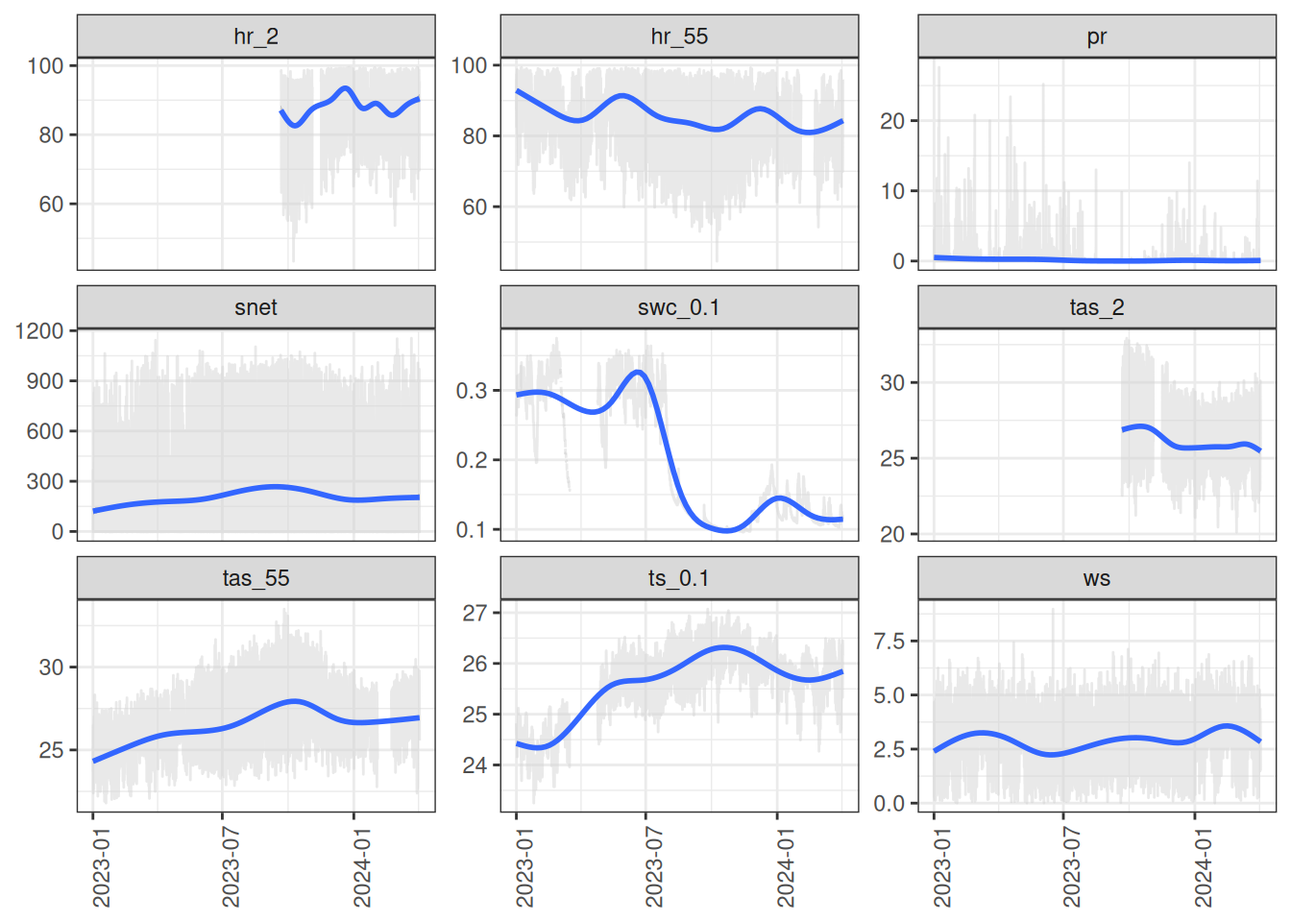
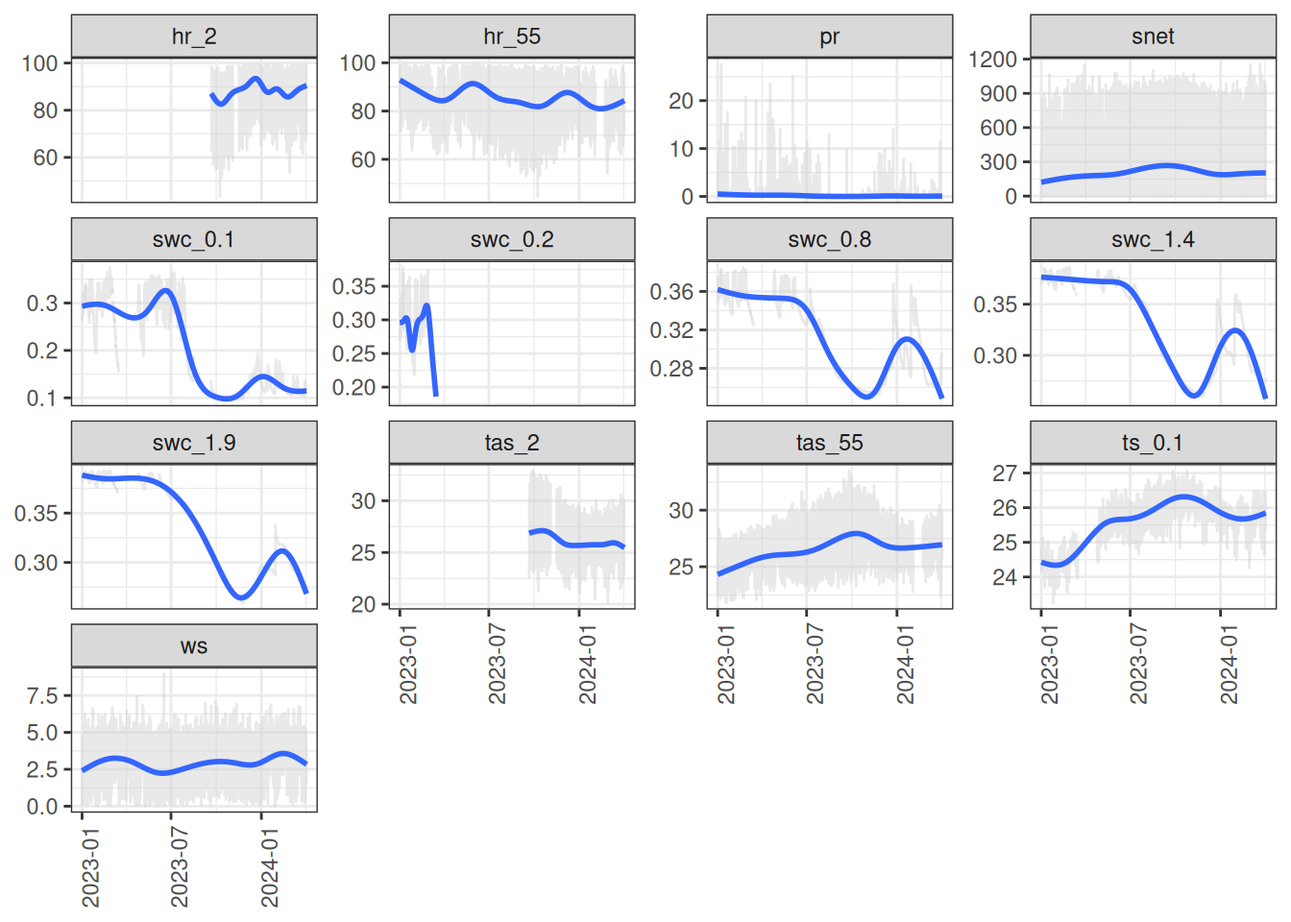
microclim 0.1.0.9007: swc at different depth from Guyaflux (REW instead?) and temporal+spatial model

diff --git a/docs/22_microclimate.html b/docs/22_microclimate.html
@@ -259,6 +259,7 @@ pre > code.sourceCode > span > a:first-child::before { text-decoration: underlin
   <li><a href="#qualitative-descriptors" id="toc-qualitative-descriptors" class="nav-link" data-scroll-target="#qualitative-descriptors">Qualitative descriptors</a></li>
   <li><a href="#spatial-descriptors" id="toc-spatial-descriptors" class="nav-link" data-scroll-target="#spatial-descriptors">Spatial descriptors</a></li>
   <li><a href="#temporal-descriptors" id="toc-temporal-descriptors" class="nav-link" data-scroll-target="#temporal-descriptors">Temporal descriptors</a></li>
+  <li><a href="#all-descriptors" id="toc-all-descriptors" class="nav-link" data-scroll-target="#all-descriptors">All descriptors</a></li>
   </ul>
 </nav>
     </div>
@@ -607,8 +608,8 @@ pre > code.sourceCode > span > a:first-child::before { text-decoration: underlin
 <span id="cb11-2"><a href="#cb11-2" aria-hidden="true" tabindex="-1"></a>                               <span class="at">sheet =</span> <span class="st">"Gx meteo_2023-2024"</span>,</span>
 <span id="cb11-3"><a href="#cb11-3" aria-hidden="true" tabindex="-1"></a>                               <span class="at">col_types =</span> <span class="fu">c</span>(<span class="st">"date"</span>, <span class="fu">rep</span>(<span class="st">"numeric"</span>, <span class="dv">29</span>))) <span class="sc">%&gt;%</span> </span>
 <span id="cb11-4"><a href="#cb11-4" aria-hidden="true" tabindex="-1"></a>  <span class="fu">rename_all</span>(tolower) <span class="sc">%&gt;%</span> </span>
-<span id="cb11-5"><a href="#cb11-5" aria-hidden="true" tabindex="-1"></a>  <span class="fu">rename</span>(<span class="at">hr_55 =</span> <span class="st">`</span><span class="at">hr(55)</span><span class="st">`</span>, <span class="at">snet =</span> rg, <span class="at">pr =</span> pluie) <span class="sc">%&gt;%</span> </span>
-<span id="cb11-6"><a href="#cb11-6" aria-hidden="true" tabindex="-1"></a>  <span class="fu">select</span>(date, hr_55, snet, pr) <span class="sc">%&gt;%</span> </span>
+<span id="cb11-5"><a href="#cb11-5" aria-hidden="true" tabindex="-1"></a>  <span class="fu">rename</span>(<span class="at">hr_55 =</span> <span class="st">`</span><span class="at">hr(55)</span><span class="st">`</span>, <span class="at">snet =</span> rg, <span class="at">pr =</span> pluie, <span class="at">swc_0.8 =</span> vwc_avg_80cm) <span class="sc">%&gt;%</span> </span>
+<span id="cb11-6"><a href="#cb11-6" aria-hidden="true" tabindex="-1"></a>  <span class="fu">select</span>(date, hr_55, snet, pr, swc_0<span class="fl">.8</span>) <span class="sc">%&gt;%</span> </span>
 <span id="cb11-7"><a href="#cb11-7" aria-hidden="true" tabindex="-1"></a>  <span class="fu">group_by</span>(<span class="at">date =</span> <span class="fu">as_date</span>(date)) <span class="sc">%&gt;%</span> </span>
 <span id="cb11-8"><a href="#cb11-8" aria-hidden="true" tabindex="-1"></a>  <span class="fu">mutate</span>(<span class="at">pr =</span> <span class="fu">sum</span>(pr)) <span class="sc">%&gt;%</span> </span>
 <span id="cb11-9"><a href="#cb11-9" aria-hidden="true" tabindex="-1"></a>  <span class="fu">summarise_all</span>(mean) <span class="sc">%&gt;%</span> </span>
@@ -621,9 +622,9 @@ pre > code.sourceCode > span > a:first-child::before { text-decoration: underlin
 <span id="cb11-16"><a href="#cb11-16" aria-hidden="true" tabindex="-1"></a>  <span class="fu">filter</span>(period <span class="sc">==</span> <span class="dv">24</span>) <span class="sc">%&gt;%</span> </span>
 <span id="cb11-17"><a href="#cb11-17" aria-hidden="true" tabindex="-1"></a>  <span class="fu">mutate</span>(<span class="at">ratio =</span> power<span class="sc">/</span>power_era) <span class="sc">%&gt;%</span> </span>
 <span id="cb11-18"><a href="#cb11-18" aria-hidden="true" tabindex="-1"></a>  <span class="fu">filter</span>(type <span class="sc">==</span> <span class="st">"air"</span>) <span class="sc">%&gt;%</span> </span>
-<span id="cb11-19"><a href="#cb11-19" aria-hidden="true" tabindex="-1"></a>  <span class="fu">left_join</span>(guyaflux) <span class="sc">%&gt;%</span> </span>
-<span id="cb11-20"><a href="#cb11-20" aria-hidden="true" tabindex="-1"></a>  <span class="fu">filter</span>(<span class="sc">!</span><span class="fu">is.na</span>(variable)) <span class="sc">%&gt;%</span> </span>
-<span id="cb11-21"><a href="#cb11-21" aria-hidden="true" tabindex="-1"></a>  <span class="fu">mutate</span>(<span class="at">season =</span> <span class="fu">ifelse</span>(<span class="fu">month</span>(date) <span class="sc">%in%</span> <span class="dv">8</span><span class="sc">:</span><span class="dv">11</span>, <span class="st">"dry"</span>, <span class="st">"wet"</span>))</span>
+<span id="cb11-19"><a href="#cb11-19" aria-hidden="true" tabindex="-1"></a>  <span class="fu">mutate</span>(<span class="at">season =</span> <span class="fu">ifelse</span>(<span class="fu">month</span>(date) <span class="sc">%in%</span> <span class="dv">8</span><span class="sc">:</span><span class="dv">11</span>, <span class="st">"dry"</span>, <span class="st">"wet"</span>)) <span class="sc">%&gt;%</span> </span>
+<span id="cb11-20"><a href="#cb11-20" aria-hidden="true" tabindex="-1"></a>  <span class="fu">left_join</span>(guyaflux) <span class="sc">%&gt;%</span> </span>
+<span id="cb11-21"><a href="#cb11-21" aria-hidden="true" tabindex="-1"></a>  <span class="fu">filter</span>(<span class="sc">!</span><span class="fu">is.na</span>(variable))</span>
 <span id="cb11-22"><a href="#cb11-22" aria-hidden="true" tabindex="-1"></a><span class="fu">ggplot</span>(temp, <span class="fu">aes</span>(value, ratio)) <span class="sc">+</span></span>
 <span id="cb11-23"><a href="#cb11-23" aria-hidden="true" tabindex="-1"></a>  <span class="fu">geom_point</span>(<span class="at">alpha =</span> .<span class="dv">1</span>, <span class="fu">aes</span>(<span class="at">col =</span> season)) <span class="sc">+</span></span>
 <span id="cb11-24"><a href="#cb11-24" aria-hidden="true" tabindex="-1"></a>  <span class="fu">facet_wrap</span>(<span class="sc">~</span> variable, <span class="at">scales =</span> <span class="st">"free"</span>, <span class="at">nrow =</span> <span class="dv">2</span>) <span class="sc">+</span></span>
@@ -650,8 +651,8 @@ pre > code.sourceCode > span > a:first-child::before { text-decoration: underlin
 <div class="sourceCode cell-code" id="cb12"><pre class="sourceCode r code-with-copy"><code class="sourceCode r"><span id="cb12-1"><a href="#cb12-1" aria-hidden="true" tabindex="-1"></a>temp <span class="sc">%&gt;%</span> </span>
 <span id="cb12-2"><a href="#cb12-2" aria-hidden="true" tabindex="-1"></a>  <span class="fu">pivot_wider</span>(<span class="at">names_from =</span> variable, <span class="at">values_from =</span> value) <span class="sc">%&gt;%</span> </span>
 <span id="cb12-3"><a href="#cb12-3" aria-hidden="true" tabindex="-1"></a>  <span class="fu">filter</span>(<span class="sc">!</span><span class="fu">is.infinite</span>(pr)) <span class="sc">%&gt;%</span> </span>
-<span id="cb12-4"><a href="#cb12-4" aria-hidden="true" tabindex="-1"></a>  <span class="fu">mutate</span>(<span class="fu">across</span>(<span class="fu">c</span>(<span class="st">"ratio"</span>, <span class="st">"hr_55"</span>, <span class="st">"snet"</span>, <span class="st">"pr"</span>), scale)) <span class="sc">%&gt;%</span> </span>
-<span id="cb12-5"><a href="#cb12-5" aria-hidden="true" tabindex="-1"></a>  <span class="fu">lm</span>(ratio <span class="sc">~</span> season <span class="sc">+</span> hr_55 <span class="sc">+</span> snet <span class="sc">+</span> pr, <span class="at">data =</span> .) <span class="sc">%&gt;%</span> </span>
+<span id="cb12-4"><a href="#cb12-4" aria-hidden="true" tabindex="-1"></a>  <span class="fu">mutate</span>(<span class="fu">across</span>(<span class="fu">c</span>(<span class="st">"ratio"</span>, <span class="st">"hr_55"</span>, <span class="st">"snet"</span>, <span class="st">"pr"</span>, <span class="st">"swc_0.8"</span>), scale)) <span class="sc">%&gt;%</span> </span>
+<span id="cb12-5"><a href="#cb12-5" aria-hidden="true" tabindex="-1"></a>  <span class="fu">lm</span>(ratio <span class="sc">~</span> season <span class="sc">+</span> hr_55 <span class="sc">+</span> snet <span class="sc">+</span> pr <span class="sc">+</span> swc_0<span class="fl">.8</span>, <span class="at">data =</span> .) <span class="sc">%&gt;%</span> </span>
 <span id="cb12-6"><a href="#cb12-6" aria-hidden="true" tabindex="-1"></a>  sjPlot<span class="sc">::</span><span class="fu">tab_model</span>()</span></code><button title="Copy to Clipboard" class="code-copy-button"><i class="bi"></i></button></pre></div>
 </details>
 <div class="cell-output-display">
@@ -669,41 +670,137 @@ pre > code.sourceCode > span > a:first-child::before { text-decoration: underlin
 </tr>
 <tr class="odd">
 <td style="text-align: left; padding: 0.2cm; vertical-align: top;">(Intercept)</td>
-<td style="text-align: left; padding: 0.2cm; vertical-align: top;">1.13</td>
-<td style="text-align: left; padding: 0.2cm; vertical-align: top;">1.03&nbsp;–&nbsp;1.22</td>
+<td style="text-align: left; padding: 0.2cm; vertical-align: top;">1.08</td>
+<td style="text-align: left; padding: 0.2cm; vertical-align: top;">0.97&nbsp;–&nbsp;1.19</td>
 <td style="text-align: left; padding: 0.2cm; vertical-align: top;"><strong>&lt;0.001</strong></td>
 </tr>
 <tr class="even">
 <td style="text-align: left; padding: 0.2cm; vertical-align: top;">season [wet]</td>
-<td style="text-align: left; padding: 0.2cm; vertical-align: top;">-1.31</td>
-<td style="text-align: left; padding: 0.2cm; vertical-align: top;">-1.41&nbsp;–&nbsp;-1.21</td>
+<td style="text-align: left; padding: 0.2cm; vertical-align: top;">-1.20</td>
+<td style="text-align: left; padding: 0.2cm; vertical-align: top;">-1.33&nbsp;–&nbsp;-1.08</td>
 <td style="text-align: left; padding: 0.2cm; vertical-align: top;"><strong>&lt;0.001</strong></td>
 </tr>
 <tr class="odd">
 <td style="text-align: left; padding: 0.2cm; vertical-align: top;">hr 55</td>
-<td style="text-align: left; padding: 0.2cm; vertical-align: top;">-0.26</td>
-<td style="text-align: left; padding: 0.2cm; vertical-align: top;">-0.32&nbsp;–&nbsp;-0.20</td>
+<td style="text-align: left; padding: 0.2cm; vertical-align: top;">-0.19</td>
+<td style="text-align: left; padding: 0.2cm; vertical-align: top;">-0.26&nbsp;–&nbsp;-0.11</td>
 <td style="text-align: left; padding: 0.2cm; vertical-align: top;"><strong>&lt;0.001</strong></td>
 </tr>
 <tr class="even">
 <td style="text-align: left; padding: 0.2cm; vertical-align: top;">snet</td>
-<td style="text-align: left; padding: 0.2cm; vertical-align: top;">0.01</td>
-<td style="text-align: left; padding: 0.2cm; vertical-align: top;">-0.03&nbsp;–&nbsp;0.06</td>
-<td style="text-align: left; padding: 0.2cm; vertical-align: top;">0.602</td>
+<td style="text-align: left; padding: 0.2cm; vertical-align: top;">0.00</td>
+<td style="text-align: left; padding: 0.2cm; vertical-align: top;">-0.05&nbsp;–&nbsp;0.06</td>
+<td style="text-align: left; padding: 0.2cm; vertical-align: top;">0.879</td>
 </tr>
 <tr class="odd">
 <td style="text-align: left; padding: 0.2cm; vertical-align: top;">pr</td>
-<td style="text-align: left; padding: 0.2cm; vertical-align: top;">-0.15</td>
-<td style="text-align: left; padding: 0.2cm; vertical-align: top;">-0.20&nbsp;–&nbsp;-0.10</td>
+<td style="text-align: left; padding: 0.2cm; vertical-align: top;">-0.16</td>
+<td style="text-align: left; padding: 0.2cm; vertical-align: top;">-0.22&nbsp;–&nbsp;-0.11</td>
 <td style="text-align: left; padding: 0.2cm; vertical-align: top;"><strong>&lt;0.001</strong></td>
 </tr>
 <tr class="even">
-<td style="text-align: left; padding: 0.2cm; vertical-align: top; padding-top: 0.1cm; padding-bottom: 0.1cm; border-top: 1px solid;">Observations</td>
-<td colspan="3" style="text-align: left; padding: 0.2cm; vertical-align: top; padding-top: 0.1cm; padding-bottom: 0.1cm; border-top: 1px solid;">2112</td>
+<td style="text-align: left; padding: 0.2cm; vertical-align: top;">swc 0 8</td>
+<td style="text-align: left; padding: 0.2cm; vertical-align: top;">-0.06</td>
+<td style="text-align: left; padding: 0.2cm; vertical-align: top;">-0.11&nbsp;–&nbsp;-0.01</td>
+<td style="text-align: left; padding: 0.2cm; vertical-align: top;"><strong>0.011</strong></td>
 </tr>
 <tr class="odd">
+<td style="text-align: left; padding: 0.2cm; vertical-align: top; padding-top: 0.1cm; padding-bottom: 0.1cm; border-top: 1px solid;">Observations</td>
+<td colspan="3" style="text-align: left; padding: 0.2cm; vertical-align: top; padding-top: 0.1cm; padding-bottom: 0.1cm; border-top: 1px solid;">1952</td>
+</tr>
+<tr class="even">
 <td style="text-align: left; padding: 0.2cm; vertical-align: top; padding-top: 0.1cm; padding-bottom: 0.1cm;">R<sup>2</sup> / R<sup>2</sup> adjusted</td>
-<td colspan="3" style="text-align: left; padding: 0.2cm; vertical-align: top; padding-top: 0.1cm; padding-bottom: 0.1cm;">0.424 / 0.423</td>
+<td colspan="3" style="text-align: left; padding: 0.2cm; vertical-align: top; padding-top: 0.1cm; padding-bottom: 0.1cm;">0.399 / 0.398</td>
+</tr>
+</tbody>
+</table>
+
+
+</div>
+</div>
+</section>
+<section id="all-descriptors" class="level2">
+<h2 class="anchored" data-anchor-id="all-descriptors">All descriptors</h2>
+<div class="cell">
+<details>
+<summary>Code</summary>
+<div class="sourceCode cell-code" id="cb13"><pre class="sourceCode r code-with-copy"><code class="sourceCode r"><span id="cb13-1"><a href="#cb13-1" aria-hidden="true" tabindex="-1"></a>temp <span class="sc">%&gt;%</span> </span>
+<span id="cb13-2"><a href="#cb13-2" aria-hidden="true" tabindex="-1"></a>  <span class="fu">pivot_wider</span>(<span class="at">names_from =</span> variable, <span class="at">values_from =</span> value) <span class="sc">%&gt;%</span> </span>
+<span id="cb13-3"><a href="#cb13-3" aria-hidden="true" tabindex="-1"></a>  <span class="fu">filter</span>(<span class="sc">!</span><span class="fu">is.infinite</span>(pr)) <span class="sc">%&gt;%</span> </span>
+<span id="cb13-4"><a href="#cb13-4" aria-hidden="true" tabindex="-1"></a>  <span class="fu">left_join</span>(topo) <span class="sc">%&gt;%</span> </span>
+<span id="cb13-5"><a href="#cb13-5" aria-hidden="true" tabindex="-1"></a>  <span class="fu">left_join</span>(<span class="fu">filter</span>(pad, strata <span class="sc">==</span> <span class="st">"understory"</span>)) <span class="sc">%&gt;%</span> </span>
+<span id="cb13-6"><a href="#cb13-6" aria-hidden="true" tabindex="-1"></a>  <span class="fu">mutate</span>(<span class="fu">across</span>(<span class="fu">c</span>(<span class="st">"ratio"</span>, <span class="st">"hr_55"</span>, <span class="st">"snet"</span>, <span class="st">"pr"</span>, <span class="st">"swc_0.8"</span>, <span class="st">"twi"</span>, <span class="st">"pad"</span>), scale)) <span class="sc">%&gt;%</span> </span>
+<span id="cb13-7"><a href="#cb13-7" aria-hidden="true" tabindex="-1"></a>  <span class="fu">lm</span>(ratio <span class="sc">~</span> season <span class="sc">+</span> hr_55 <span class="sc">+</span> snet <span class="sc">+</span> pr <span class="sc">+</span> swc_0<span class="fl">.8</span> <span class="sc">+</span> twi <span class="sc">+</span> pad, <span class="at">data =</span> .) <span class="sc">%&gt;%</span> </span>
+<span id="cb13-8"><a href="#cb13-8" aria-hidden="true" tabindex="-1"></a>  sjPlot<span class="sc">::</span><span class="fu">tab_model</span>()</span></code><button title="Copy to Clipboard" class="code-copy-button"><i class="bi"></i></button></pre></div>
+</details>
+<div class="cell-output-display">
+<table data-quarto-postprocess="true" class="table table-sm table-striped small">
+<tbody>
+<tr class="odd">
+<td data-quarto-table-cell-role="th" style="text-align: center; border-top: double; font-style: normal; font-weight: bold; padding: 0.2cm;">&nbsp;</td>
+<td colspan="3" data-quarto-table-cell-role="th" style="text-align: center; border-top: double; font-style: normal; font-weight: bold; padding: 0.2cm;">ratio</td>
+</tr>
+<tr class="even">
+<td style="text-align: center; border-bottom: 1px solid; font-style: italic; font-weight: normal;">Predictors</td>
+<td style="text-align: center; border-bottom: 1px solid; font-style: italic; font-weight: normal;">Estimates</td>
+<td style="text-align: center; border-bottom: 1px solid; font-style: italic; font-weight: normal;">CI</td>
+<td style="text-align: center; border-bottom: 1px solid; font-style: italic; font-weight: normal;">p</td>
+</tr>
+<tr class="odd">
+<td style="text-align: left; padding: 0.2cm; vertical-align: top;">(Intercept)</td>
+<td style="text-align: left; padding: 0.2cm; vertical-align: top;">1.04</td>
+<td style="text-align: left; padding: 0.2cm; vertical-align: top;">0.94&nbsp;–&nbsp;1.15</td>
+<td style="text-align: left; padding: 0.2cm; vertical-align: top;"><strong>&lt;0.001</strong></td>
+</tr>
+<tr class="even">
+<td style="text-align: left; padding: 0.2cm; vertical-align: top;">season [wet]</td>
+<td style="text-align: left; padding: 0.2cm; vertical-align: top;">-1.19</td>
+<td style="text-align: left; padding: 0.2cm; vertical-align: top;">-1.31&nbsp;–&nbsp;-1.07</td>
+<td style="text-align: left; padding: 0.2cm; vertical-align: top;"><strong>&lt;0.001</strong></td>
+</tr>
+<tr class="odd">
+<td style="text-align: left; padding: 0.2cm; vertical-align: top;">hr 55</td>
+<td style="text-align: left; padding: 0.2cm; vertical-align: top;">-0.19</td>
+<td style="text-align: left; padding: 0.2cm; vertical-align: top;">-0.25&nbsp;–&nbsp;-0.12</td>
+<td style="text-align: left; padding: 0.2cm; vertical-align: top;"><strong>&lt;0.001</strong></td>
+</tr>
+<tr class="even">
+<td style="text-align: left; padding: 0.2cm; vertical-align: top;">snet</td>
+<td style="text-align: left; padding: 0.2cm; vertical-align: top;">-0.00</td>
+<td style="text-align: left; padding: 0.2cm; vertical-align: top;">-0.05&nbsp;–&nbsp;0.05</td>
+<td style="text-align: left; padding: 0.2cm; vertical-align: top;">0.986</td>
+</tr>
+<tr class="odd">
+<td style="text-align: left; padding: 0.2cm; vertical-align: top;">pr</td>
+<td style="text-align: left; padding: 0.2cm; vertical-align: top;">-0.17</td>
+<td style="text-align: left; padding: 0.2cm; vertical-align: top;">-0.22&nbsp;–&nbsp;-0.12</td>
+<td style="text-align: left; padding: 0.2cm; vertical-align: top;"><strong>&lt;0.001</strong></td>
+</tr>
+<tr class="even">
+<td style="text-align: left; padding: 0.2cm; vertical-align: top;">swc 0 8</td>
+<td style="text-align: left; padding: 0.2cm; vertical-align: top;">-0.07</td>
+<td style="text-align: left; padding: 0.2cm; vertical-align: top;">-0.11&nbsp;–&nbsp;-0.02</td>
+<td style="text-align: left; padding: 0.2cm; vertical-align: top;"><strong>0.002</strong></td>
+</tr>
+<tr class="odd">
+<td style="text-align: left; padding: 0.2cm; vertical-align: top;">twi</td>
+<td style="text-align: left; padding: 0.2cm; vertical-align: top;">-0.11</td>
+<td style="text-align: left; padding: 0.2cm; vertical-align: top;">-0.14&nbsp;–&nbsp;-0.07</td>
+<td style="text-align: left; padding: 0.2cm; vertical-align: top;"><strong>&lt;0.001</strong></td>
+</tr>
+<tr class="even">
+<td style="text-align: left; padding: 0.2cm; vertical-align: top;">pad</td>
+<td style="text-align: left; padding: 0.2cm; vertical-align: top;">-0.09</td>
+<td style="text-align: left; padding: 0.2cm; vertical-align: top;">-0.13&nbsp;–&nbsp;-0.05</td>
+<td style="text-align: left; padding: 0.2cm; vertical-align: top;"><strong>&lt;0.001</strong></td>
+</tr>
+<tr class="odd">
+<td style="text-align: left; padding: 0.2cm; vertical-align: top; padding-top: 0.1cm; padding-bottom: 0.1cm; border-top: 1px solid;">Observations</td>
+<td colspan="3" style="text-align: left; padding: 0.2cm; vertical-align: top; padding-top: 0.1cm; padding-bottom: 0.1cm; border-top: 1px solid;">1891</td>
+</tr>
+<tr class="even">
+<td style="text-align: left; padding: 0.2cm; vertical-align: top; padding-top: 0.1cm; padding-bottom: 0.1cm;">R<sup>2</sup> / R<sup>2</sup> adjusted</td>
+<td colspan="3" style="text-align: left; padding: 0.2cm; vertical-align: top; padding-top: 0.1cm; padding-bottom: 0.1cm;">0.435 / 0.433</td>
 </tr>
 </tbody>
 </table>

diff --git a/docs/13_guyaflux.html b/docs/13_guyaflux.html
@@ -300,16 +300,22 @@ div.csl-indent {
 <span id="cb1-3"><a href="#cb1-3" aria-hidden="true" tabindex="-1"></a>                               <span class="at">col_types =</span> <span class="fu">c</span>(<span class="st">"date"</span>, <span class="fu">rep</span>(<span class="st">"numeric"</span>, <span class="dv">29</span>))) <span class="sc">%&gt;%</span> </span>
 <span id="cb1-4"><a href="#cb1-4" aria-hidden="true" tabindex="-1"></a>  <span class="fu">rename_all</span>(tolower) <span class="sc">%&gt;%</span> </span>
 <span id="cb1-5"><a href="#cb1-5" aria-hidden="true" tabindex="-1"></a>  <span class="fu">rename</span>(<span class="at">tas_55 =</span> <span class="st">`</span><span class="at">temp(55)</span><span class="st">`</span>, <span class="at">hr_55 =</span> <span class="st">`</span><span class="at">hr(55)</span><span class="st">`</span>, <span class="at">tas_2 =</span> <span class="st">`</span><span class="at">temp(2,0)</span><span class="st">`</span>, <span class="at">hr_2 =</span> <span class="st">`</span><span class="at">hr(2,0)</span><span class="st">`</span>, </span>
-<span id="cb1-6"><a href="#cb1-6" aria-hidden="true" tabindex="-1"></a>         <span class="at">ts_0.1 =</span> t_avg_10cm, <span class="at">swc_0.1 =</span> vwc_avg_10cm, <span class="at">snet =</span> rg, </span>
-<span id="cb1-7"><a href="#cb1-7" aria-hidden="true" tabindex="-1"></a>         <span class="at">ws =</span> <span class="st">`</span><span class="at">vit vent</span><span class="st">`</span>, <span class="at">pr =</span> pluie) <span class="sc">%&gt;%</span> </span>
-<span id="cb1-8"><a href="#cb1-8" aria-hidden="true" tabindex="-1"></a>  <span class="fu">select</span>(date, tas_55, hr_55, tas_2, hr_2, ts_0<span class="fl">.1</span>, swc_0<span class="fl">.1</span>, snet, ws, pr) <span class="sc">%&gt;%</span> </span>
-<span id="cb1-9"><a href="#cb1-9" aria-hidden="true" tabindex="-1"></a>  <span class="fu">gather</span>(variable, value, <span class="sc">-</span>date) <span class="sc">%&gt;%</span> </span>
-<span id="cb1-10"><a href="#cb1-10" aria-hidden="true" tabindex="-1"></a>  <span class="fu">ggplot</span>(<span class="fu">aes</span>(date, value)) <span class="sc">+</span></span>
-<span id="cb1-11"><a href="#cb1-11" aria-hidden="true" tabindex="-1"></a>  <span class="fu">geom_line</span>(<span class="at">col =</span> <span class="st">"lightgrey"</span>, <span class="at">alpha =</span> <span class="fl">0.5</span>) <span class="sc">+</span></span>
-<span id="cb1-12"><a href="#cb1-12" aria-hidden="true" tabindex="-1"></a>  <span class="fu">geom_smooth</span>() <span class="sc">+</span></span>
-<span id="cb1-13"><a href="#cb1-13" aria-hidden="true" tabindex="-1"></a>  <span class="fu">facet_wrap</span>(<span class="sc">~</span> variable, <span class="at">scales =</span> <span class="st">"free_y"</span>) <span class="sc">+</span></span>
-<span id="cb1-14"><a href="#cb1-14" aria-hidden="true" tabindex="-1"></a>  <span class="fu">theme_bw</span>() <span class="sc">+</span></span>
-<span id="cb1-15"><a href="#cb1-15" aria-hidden="true" tabindex="-1"></a>  <span class="fu">theme</span>(<span class="at">axis.title =</span> <span class="fu">element_blank</span>(), <span class="at">axis.text.x =</span> <span class="fu">element_text</span>(<span class="at">angle =</span> <span class="dv">90</span>))</span></code><button title="Copy to Clipboard" class="code-copy-button"><i class="bi"></i></button></pre></div>
+<span id="cb1-6"><a href="#cb1-6" aria-hidden="true" tabindex="-1"></a>         <span class="at">ts_0.1 =</span> t_avg_10cm, </span>
+<span id="cb1-7"><a href="#cb1-7" aria-hidden="true" tabindex="-1"></a>         <span class="at">swc_0.1 =</span> vwc_avg_10cm, <span class="at">swc_0.2 =</span> vwc_avg_20cm, </span>
+<span id="cb1-8"><a href="#cb1-8" aria-hidden="true" tabindex="-1"></a>         <span class="at">swc_0.8 =</span> vwc_avg_80cm, <span class="at">swc_1.4 =</span> vwc_avg_140cm, </span>
+<span id="cb1-9"><a href="#cb1-9" aria-hidden="true" tabindex="-1"></a>         <span class="at">swc_1.9 =</span> vwc_avg_190cm, </span>
+<span id="cb1-10"><a href="#cb1-10" aria-hidden="true" tabindex="-1"></a>         <span class="at">snet =</span> rg, </span>
+<span id="cb1-11"><a href="#cb1-11" aria-hidden="true" tabindex="-1"></a>         <span class="at">ws =</span> <span class="st">`</span><span class="at">vit vent</span><span class="st">`</span>, <span class="at">pr =</span> pluie) <span class="sc">%&gt;%</span> </span>
+<span id="cb1-12"><a href="#cb1-12" aria-hidden="true" tabindex="-1"></a>  <span class="fu">select</span>(date, tas_55, hr_55, tas_2, hr_2, ts_0<span class="fl">.1</span>, </span>
+<span id="cb1-13"><a href="#cb1-13" aria-hidden="true" tabindex="-1"></a>         swc_0<span class="fl">.1</span>,swc_0<span class="fl">.2</span>, swc_0<span class="fl">.8</span>, swc_1<span class="fl">.4</span>, swc_1<span class="fl">.9</span>, </span>
+<span id="cb1-14"><a href="#cb1-14" aria-hidden="true" tabindex="-1"></a>         snet, ws, pr) <span class="sc">%&gt;%</span> </span>
+<span id="cb1-15"><a href="#cb1-15" aria-hidden="true" tabindex="-1"></a>  <span class="fu">gather</span>(variable, value, <span class="sc">-</span>date) <span class="sc">%&gt;%</span> </span>
+<span id="cb1-16"><a href="#cb1-16" aria-hidden="true" tabindex="-1"></a>  <span class="fu">ggplot</span>(<span class="fu">aes</span>(date, value)) <span class="sc">+</span></span>
+<span id="cb1-17"><a href="#cb1-17" aria-hidden="true" tabindex="-1"></a>  <span class="fu">geom_line</span>(<span class="at">col =</span> <span class="st">"lightgrey"</span>, <span class="at">alpha =</span> <span class="fl">0.5</span>) <span class="sc">+</span></span>
+<span id="cb1-18"><a href="#cb1-18" aria-hidden="true" tabindex="-1"></a>  <span class="fu">geom_smooth</span>() <span class="sc">+</span></span>
+<span id="cb1-19"><a href="#cb1-19" aria-hidden="true" tabindex="-1"></a>  <span class="fu">facet_wrap</span>(<span class="sc">~</span> variable, <span class="at">scales =</span> <span class="st">"free_y"</span>) <span class="sc">+</span></span>
+<span id="cb1-20"><a href="#cb1-20" aria-hidden="true" tabindex="-1"></a>  <span class="fu">theme_bw</span>() <span class="sc">+</span></span>
+<span id="cb1-21"><a href="#cb1-21" aria-hidden="true" tabindex="-1"></a>  <span class="fu">theme</span>(<span class="at">axis.title =</span> <span class="fu">element_blank</span>(), <span class="at">axis.text.x =</span> <span class="fu">element_text</span>(<span class="at">angle =</span> <span class="dv">90</span>))</span></code><button title="Copy to Clipboard" class="code-copy-button"><i class="bi"></i></button></pre></div>
 </details>
 <div class="cell-output-display">
 <div class="quarto-figure quarto-figure-center">

diff --git a/docs/96_literature.html b/docs/96_literature.html
@@ -20,7 +20,26 @@ ul.task-list li input[type="checkbox"] {
   margin: 0 0.8em 0.2em -1em; /* quarto-specific, see https://github.com/quarto-dev/quarto-cli/issues/4556 */ 
   vertical-align: middle;
 }
-</style>
+/* CSS for citations */
+div.csl-bib-body { }
+div.csl-entry {
+  clear: both;
+}
+.hanging-indent div.csl-entry {
+  margin-left:2em;
+  text-indent:-2em;
+}
+div.csl-left-margin {
+  min-width:2em;
+  float:left;
+}
+div.csl-right-inline {
+  margin-left:2em;
+  padding-left:1em;
+}
+div.csl-indent {
+  margin-left: 2em;
+}</style>
 
 
 <script src="site_libs/quarto-nav/quarto-nav.js"></script>
@@ -248,10 +267,19 @@ ul.task-list li input[type="checkbox"] {
 <section id="to-add" class="level2">
 <h2 class="anchored" data-anchor-id="to-add">To add</h2>
 <ul>
-<li></li>
+<li><span class="citation" data-cites="ma2025">Ma et al. (<a href="99_references.html#ref-ma2025" role="doc-biblioref">2025</a>)</span></li>
+<li><span class="citation" data-cites="hes2025a">Hes et al. (<a href="99_references.html#ref-hes2025a" role="doc-biblioref">2025</a>)</span></li>
 </ul>
 
 
+<div id="refs" class="references csl-bib-body hanging-indent" role="list" style="display: none">
+<div id="ref-hes2025a" class="csl-entry" role="listitem">
+Hes, Gabriel, Vincyane Badouard, Benoit Burban, Jocelyn Cazal, Elodie A. Courtois, Géraldine Derroire, Léa Francoise, et al. 2025. <span>“East Amazon Forest Understory Temperatures Reached a Record High in 2023-2024.”</span> <a href="http://dx.doi.org/10.21203/rs.3.rs-6905664/v1">http://dx.doi.org/10.21203/rs.3.rs-6905664/v1</a>.
+</div>
+<div id="ref-ma2025" class="csl-entry" role="listitem">
+Ma, Zhimin, Darlene Gris, Paulo de Jesus Feitosa Paes do Nascimento, Carolina Volkmer de Castilho, Sabina Cerruto Ribeiro, Raphael Tapajós, Wilderclay Machado, et al. 2025. <span>“The Variability of Microclimate in the Amazon Rainforest.”</span> <em>Agricultural and Forest Meteorology</em> 375 (December): 110866. <a href="https://doi.org/10.1016/j.agrformet.2025.110866">https://doi.org/10.1016/j.agrformet.2025.110866</a>.
+</div>
+</div>
 </section>
 
 </main> <!-- /main -->

diff --git a/NEWS.md b/NEWS.md
@@ -1,3 +1,4 @@
+-   microclim 0.1.0.9007: swc at different depth from Guyaflux (REW instead?) and temporal+spatial model
 -   microclim 0.1.0.9006: buffer temporal descriptors
 -   microclim 0.1.0.9005: abandoned test of longer times series and calibration (notes in pages)
 -   microclim 0.1.0.9004: ERA5-Land debiasing following Hes et al. (2025)
